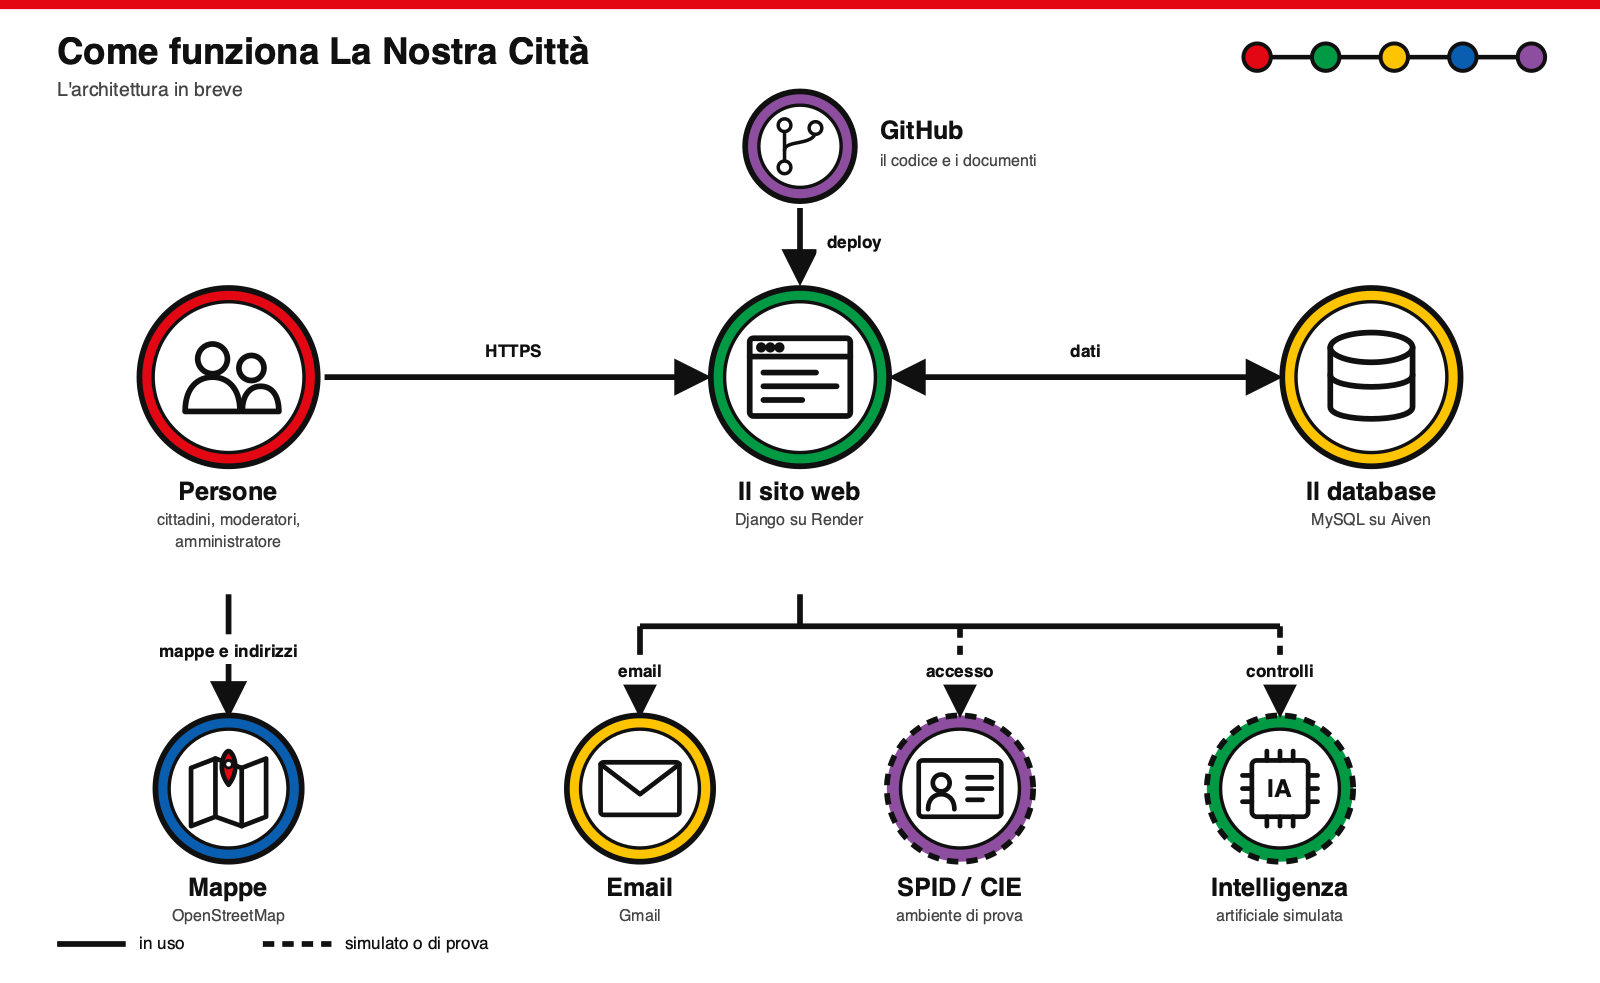
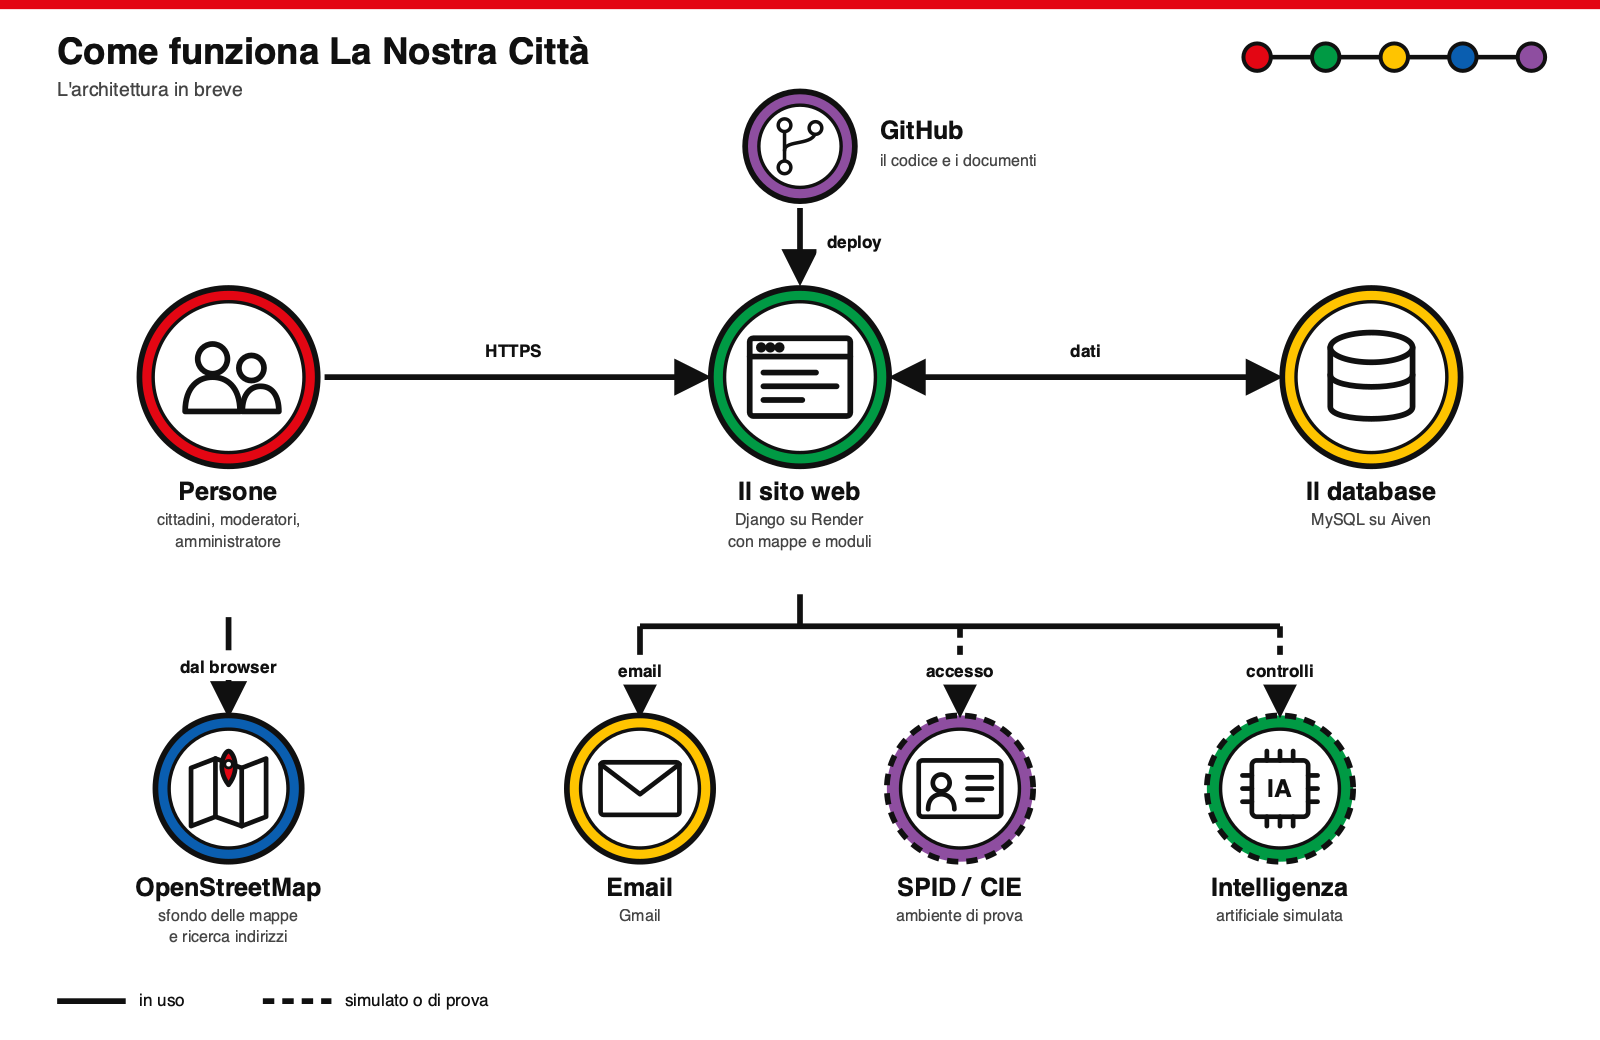
Architettura: le mappe fanno parte del sito, solo sfondo e ricerca indirizzi sono esterni

diff --git a/tools/architettura/disegna_lite.py b/tools/architettura/disegna_lite.py
@@ -3,7 +3,7 @@ Uso: DYLD_FALLBACK_LIBRARY_PATH=/opt/homebrew/lib tools/.venv/bin/python tools/a
 import html, pathlib
 
 RADICE = pathlib.Path(__file__).resolve().parents[2]
-W, H = 1400, 860
+W, H = 1400, 910
 INK, ROSSO, VERDE, GIALLO, BLU, VIOLA = "#101010", "#e30613", "#009a44", "#ffc400", "#0a5eb0", "#8e4ea0"
 o = []
 
@@ -75,7 +75,7 @@ for i, c in enumerate([ROSSO, VERDE, GIALLO, BLU, VIOLA]): o.append(f'<circle cx
 
 # riga principale
 nodo(200, 330, "persone", "Persone", ["cittadini, moderatori,", "amministratore"], ROSSO)
-nodo(700, 330, "sito", "Il sito web", ["Django su Render"], VERDE)
+nodo(700, 330, "sito", "Il sito web", ["Django su Render", "con mappe e moduli"], VERDE)
 nodo(1200, 330, "database", "Il database", ["MySQL su Aiven"], GIALLO)
 freccia([(284, 330), (616, 330)], "HTTPS", 450, 310)
 freccia([(784, 330), (1116, 330)], "dati", 950, 310, doppia=True)
@@ -85,21 +85,21 @@ t(770, 122, "GitHub", 22, 800, INK, "start")
 t(770, 146, "il codice e i documenti", 14, 400, "#444", "start")
 freccia([(700, 182), (700, 244)], "deploy", 748, 214)
 # satelliti
-nodo(200, 690, "mappa", "Mappe", ["OpenStreetMap"], BLU, r=64)
+nodo(200, 690, "mappa", "OpenStreetMap", ["sfondo delle mappe", "e ricerca indirizzi"], BLU, r=64)
 nodo(560, 690, "email", "Email", ["Gmail"], GIALLO, r=64)
 nodo(840, 690, "identita", "SPID / CIE", ["ambiente di prova"], VIOLA, tratteggio=True, r=64)
 nodo(1120, 690, "ia", "Intelligenza", ["artificiale simulata"], VERDE, tratteggio=True, r=64)
-freccia([(200, 520), (200, 622)], "mappe e indirizzi", 200, 572)
+freccia([(200, 540), (200, 622)], "dal browser", 200, 586)
 # dal sito: una linea comune che si divide verso email, SPID/CIE e IA
 o.append(f'<path d="M700 520 L700 548 M560 548 L1120 548" fill="none" stroke="{INK}" stroke-width="5" stroke-linejoin="round"/>')
 freccia([(560, 548), (560, 622)], "email", 560, 590)
 freccia([(840, 548), (840, 622)], "accesso", 840, 590, tratteggio=True)
 freccia([(1120, 548), (1120, 622)], "controlli", 1120, 590, tratteggio=True)
 # legenda
-o.append(f'<line x1="50" y1="826" x2="110" y2="826" stroke="{INK}" stroke-width="5"/>')
-t(122, 831, "in uso", 15, 400, INK, "start")
-o.append(f'<line x1="230" y1="826" x2="290" y2="826" stroke="{INK}" stroke-width="5" stroke-dasharray="10 7"/>')
-t(302, 831, "simulato o di prova", 15, 400, INK, "start")
+o.append(f'<line x1="50" y1="876" x2="110" y2="876" stroke="{INK}" stroke-width="5"/>')
+t(122, 881, "in uso", 15, 400, INK, "start")
+o.append(f'<line x1="230" y1="876" x2="290" y2="876" stroke="{INK}" stroke-width="5" stroke-dasharray="10 7"/>')
+t(302, 881, "simulato o di prova", 15, 400, INK, "start")
 o.append("</svg>")
 svg = "\n".join(o)
 (RADICE / "docs" / "architettura_lite.svg").write_text(svg, encoding="utf-8")

diff --git a/tools/architettura/disegna.py b/tools/architettura/disegna.py
@@ -103,7 +103,7 @@ box(1320, 660, 440, 90, "Fornitori di intelligenza artificiale", ["oggi simulati
 freccia([(1220, 705), (1320, 705)], "IA_BACKEND", 1270, 693, tratteggio=True)
 box(1320, 770, 440, 90, "Gmail · SMTP", ["smtp.gmail.com:587 (STARTTLS) · password per le app", "conferma dell'email, recupero password, avvisi"], GIALLO, piccolo=True)
 freccia([(1220, 815), (1320, 815)], "SMTP", 1270, 803)
-box(1320, 880, 440, 110, "Chiamati dal browser dell'utente", ["Leaflet (unpkg) · tile OpenStreetMap", "Nominatim per cercare un indirizzo", "geolocalizzazione e fotocamera del dispositivo"], INK, tratteggio=True, piccolo=True)
+box(1320, 880, 440, 110, "Servizi esterni usati dal browser", ["Leaflet (libreria delle mappe, da unpkg)", "OpenStreetMap: sfondo delle mappe e ricerca indirizzi", "geolocalizzazione e fotocamera del dispositivo"], INK, tratteggio=True, piccolo=True)
 freccia([(185, 220), (185, 245)], None)  # placeholder invisibile (non usato)
 o.pop()
 

diff --git a/docs/architettura_sistema.md b/docs/architettura_sistema.md
@@ -19,7 +19,7 @@ Sorgente vettoriale: [`architettura_sistema.svg`](architettura_sistema.svg). Il 
 | Servizio SPID/CIE | Django separato con l'SDK OpenID Connect; consegna l'identità al sito con un token firmato | `apps/spid/` |
 | Email | SMTP (Gmail con password per le app) per conferma dell'indirizzo e recupero password | `core/services/email.py`, `docs/produzione.md` |
 | Intelligenza artificiale | un'interfaccia unica con un fornitore simulato; i fornitori veri sono da scegliere | `core/services/ia/`, `docs/architettura_ia.md` |
-| Servizi del browser | Leaflet, tile OpenStreetMap, Nominatim, geolocalizzazione e fotocamera | `apps/web/static/js/` |
+| Mappe | le mappe fanno parte del sito (Leaflet, segnaposto dal database, confini dei quartieri); solo lo sfondo e la ricerca degli indirizzi arrivano da OpenStreetMap, chiamati dal browser | `apps/web/static/js/` |
 | Rilascio | commit su GitHub, deploy automatico su Render con il `Dockerfile` | `render.yaml`, `apps/web/Dockerfile` |
 
 ## Flussi principali
